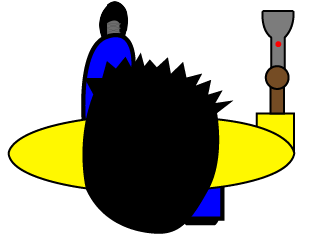
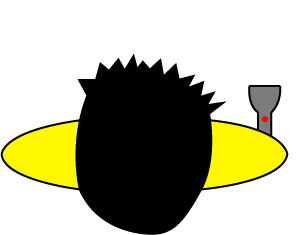
Rotation, walking and standing

Changed region(s): [[0.0, 0.0, 0.973, 1.0], [0.3649, 0.9532, 0.4257, 0.983], [0.3345, 0.9234, 0.3649, 0.9532]]

diff --git a/src/components/sprite.js b/src/components/sprite.js
@@ -9,6 +9,7 @@ export default class Sprite extends Component{
             height: h,
             X: posX,
             Y: posY,
+            angle: 0,
             tileCount,
             currentTile: 0,
             timeFrame,
@@ -22,19 +23,27 @@ export default class Sprite extends Component{
         console.log('Natural:' + img.naturalWidth)
         this.setState({img})
     }
-    update(posX, posY){
+    update(posX, posY, angle){
         const {tileCount, timeStarted, timeFrame} = this.state
+        var currentTile = 0
         if(tileCount!=1){
             const now = new Date().getTime()
-            var currentTile = Math.floor((now - timeStarted)/timeFrame)%tileCount
+            currentTile = Math.floor((now - timeStarted)/timeFrame)%tileCount
             //console.log('Tile:' + currentTile)
         }
-        this.setState({X: posX, Y: posY, currentTile})
+        this.setState({X: posX, Y: posY, currentTile, angle})
     }
     render(ctx){
-        const {img, width, height, X, Y, currentTile, tileCount} = this.state
+        const {img, width, height, X, Y, currentTile, tileCount, angle} = this.state
         var size = img.naturalWidth/tileCount
-        //console.log('crop:' + currentTile*size)
-        ctx.drawImage(img, currentTile*size, 0, size, img.naturalHeight,  X, Y, width, height)
+        const offsetX = X+width/2
+        const offsetY = Y+height/2
+        console.log(`img - ${currentTile*size}, ${0}, ${size}, ${img.naturalHeight}, ${X-offsetX}, ${Y-offsetY}, ${width}, ${height}`)
+        ctx.translate(offsetX, offsetY)
+        ctx.rotate(angle*Math.PI/180)
+        ctx.drawImage(img, currentTile*size, 0, size, img.naturalHeight,  X-offsetX, Y-offsetY, width, height)
+        ctx.rotate(-angle*Math.PI/180)
+        ctx.translate(-offsetX, -offsetY)
+
     }
 }

diff --git a/src/components/player.js b/src/components/player.js
@@ -4,10 +4,28 @@ import Sprite from './sprite.js'
 export default class Player extends Component{
     constructor(){
         super()
-        this.sprite = new Sprite('./src/assets/img/WalkingUp.png', 40,40, 630, 350, 4, 200)
+        this.state={
+            rotation: 0,
+            walkingSprite: new Sprite('./src/assets/img/WalkingUp.png', 40,40, 630, 350, 4, 200),
+            standingSprite: new Sprite('./src/assets/img/top.png', 40, 40, 630, 350),
+            still: true
+        }
+        this.sprite = this.state.standingSprite
     }
     update(xv, yv){
-        if(!!this.sprite)this.sprite.update(630, 350)
+        const {rotation, walkingSprite, standingSprite} = this.state
+        const rotate=xv==1&&yv==0?90:xv==1&&yv==1?135:xv==1&&yv==-1?45:xv==-1&&yv==0?270:xv==-1&&yv==1?-135:xv==-1&&yv==-1?-45:xv==0&&yv==1?180:xv==0&&yv==-1?0:rotation
+        const still = xv==0&&yv==0?true:false
+        if(still)
+            this.sprite = standingSprite
+        else
+            this.sprite = walkingSprite
+        /*else{
+            if(!!walkingSprite)walkingSprite.update(630, 350, rotate)
+            this.sprite = walkingSprite
+        }*/
+        if(!!this.sprite)this.sprite.update(630, 350, rotate)
+        this.setState({rotation:rotate, still})
     }
     render(ctx){
         this.sprite.render(ctx)
